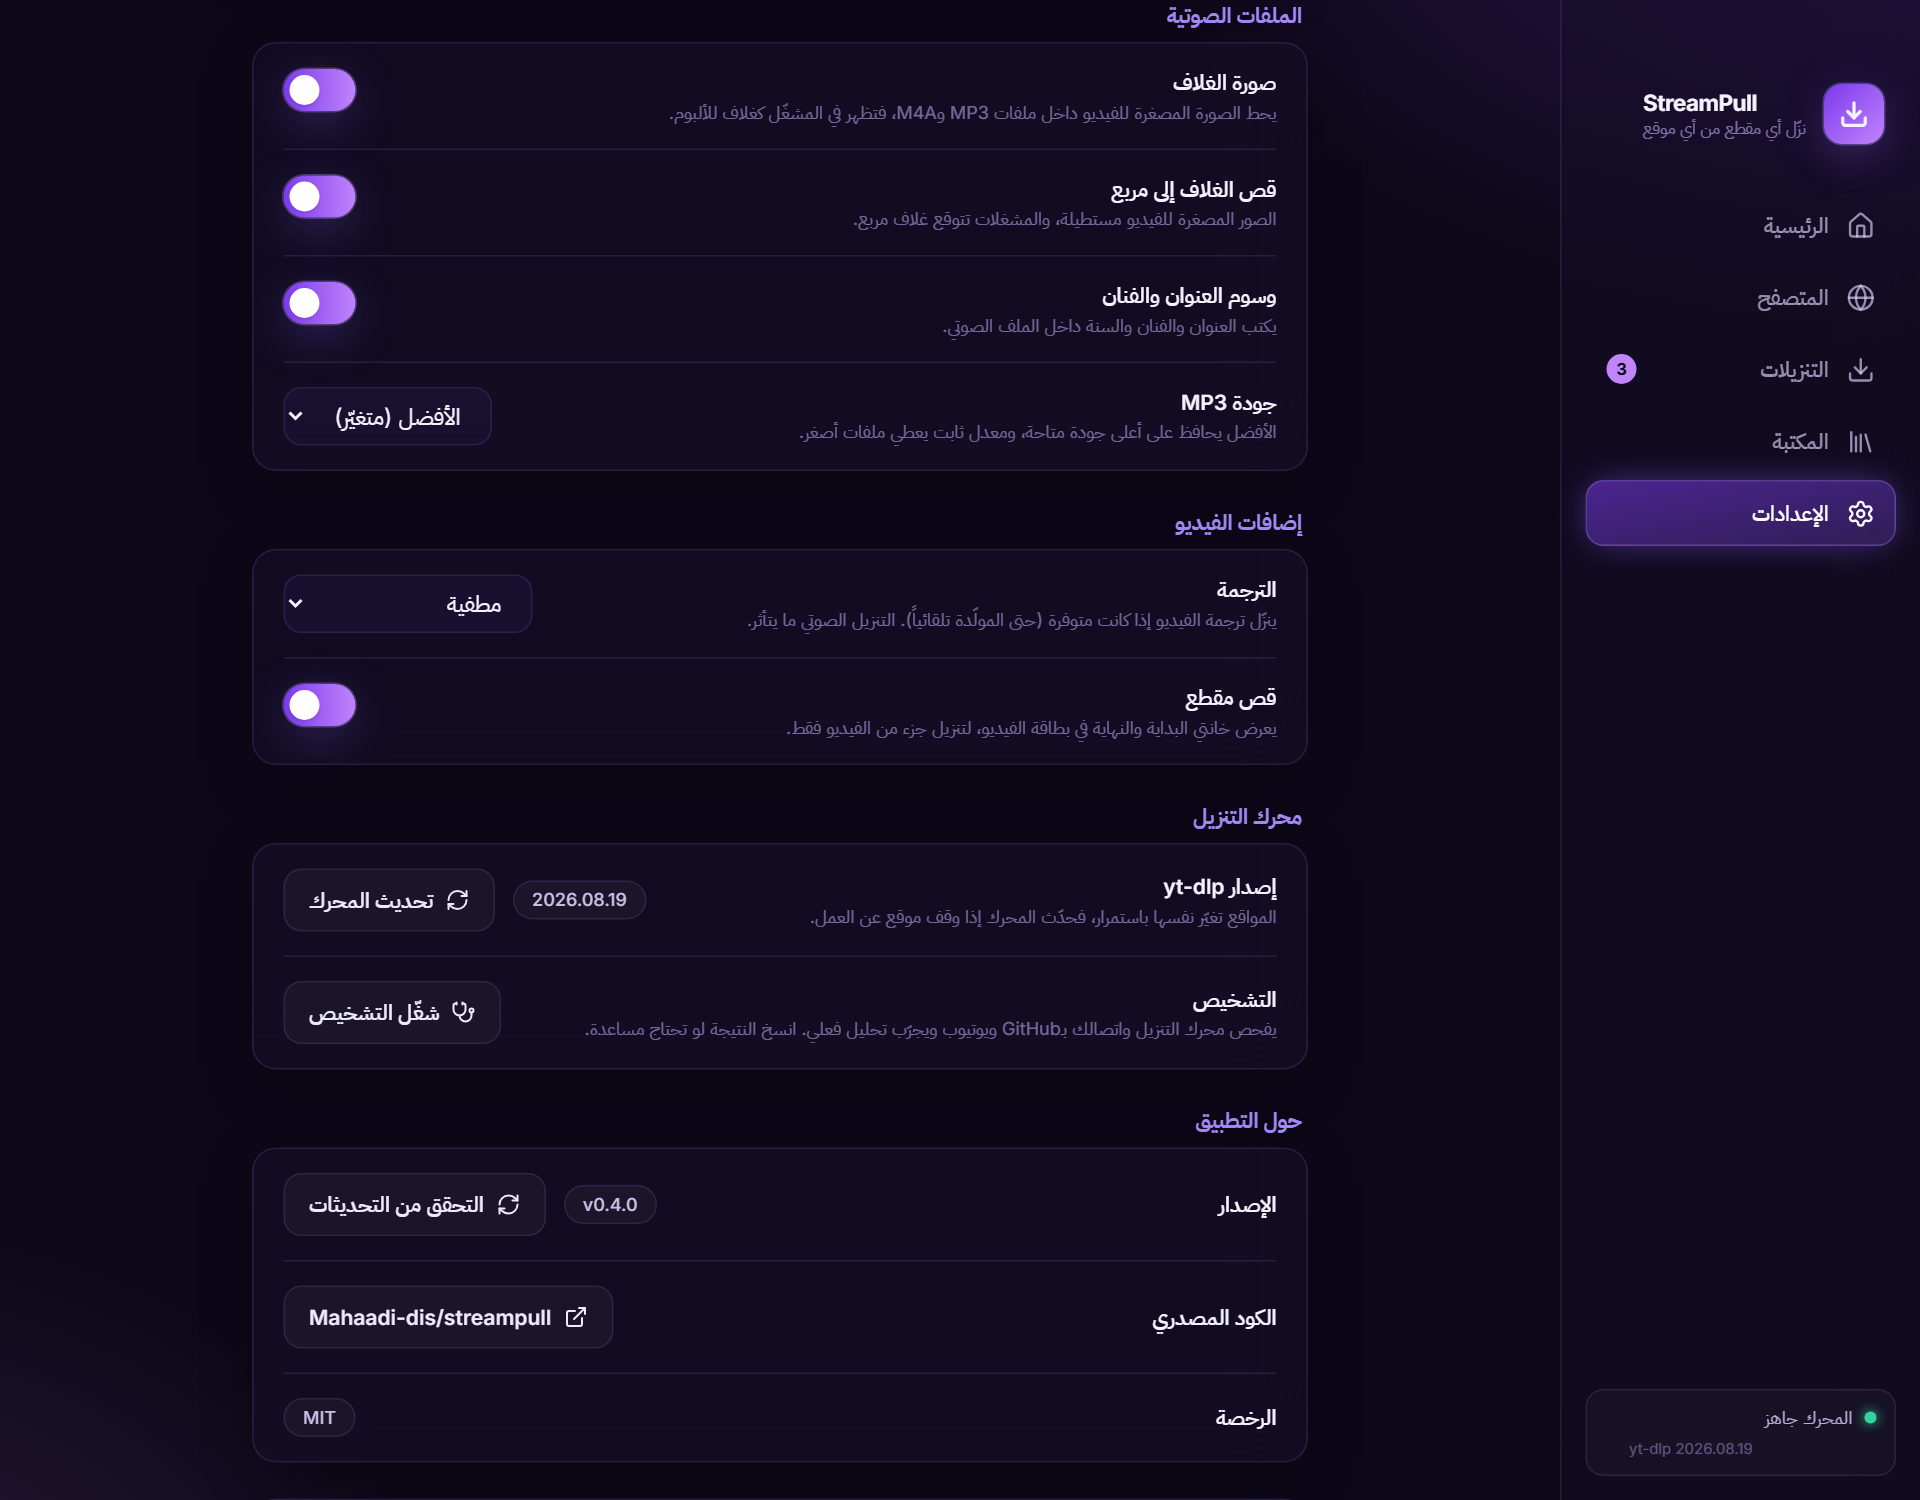
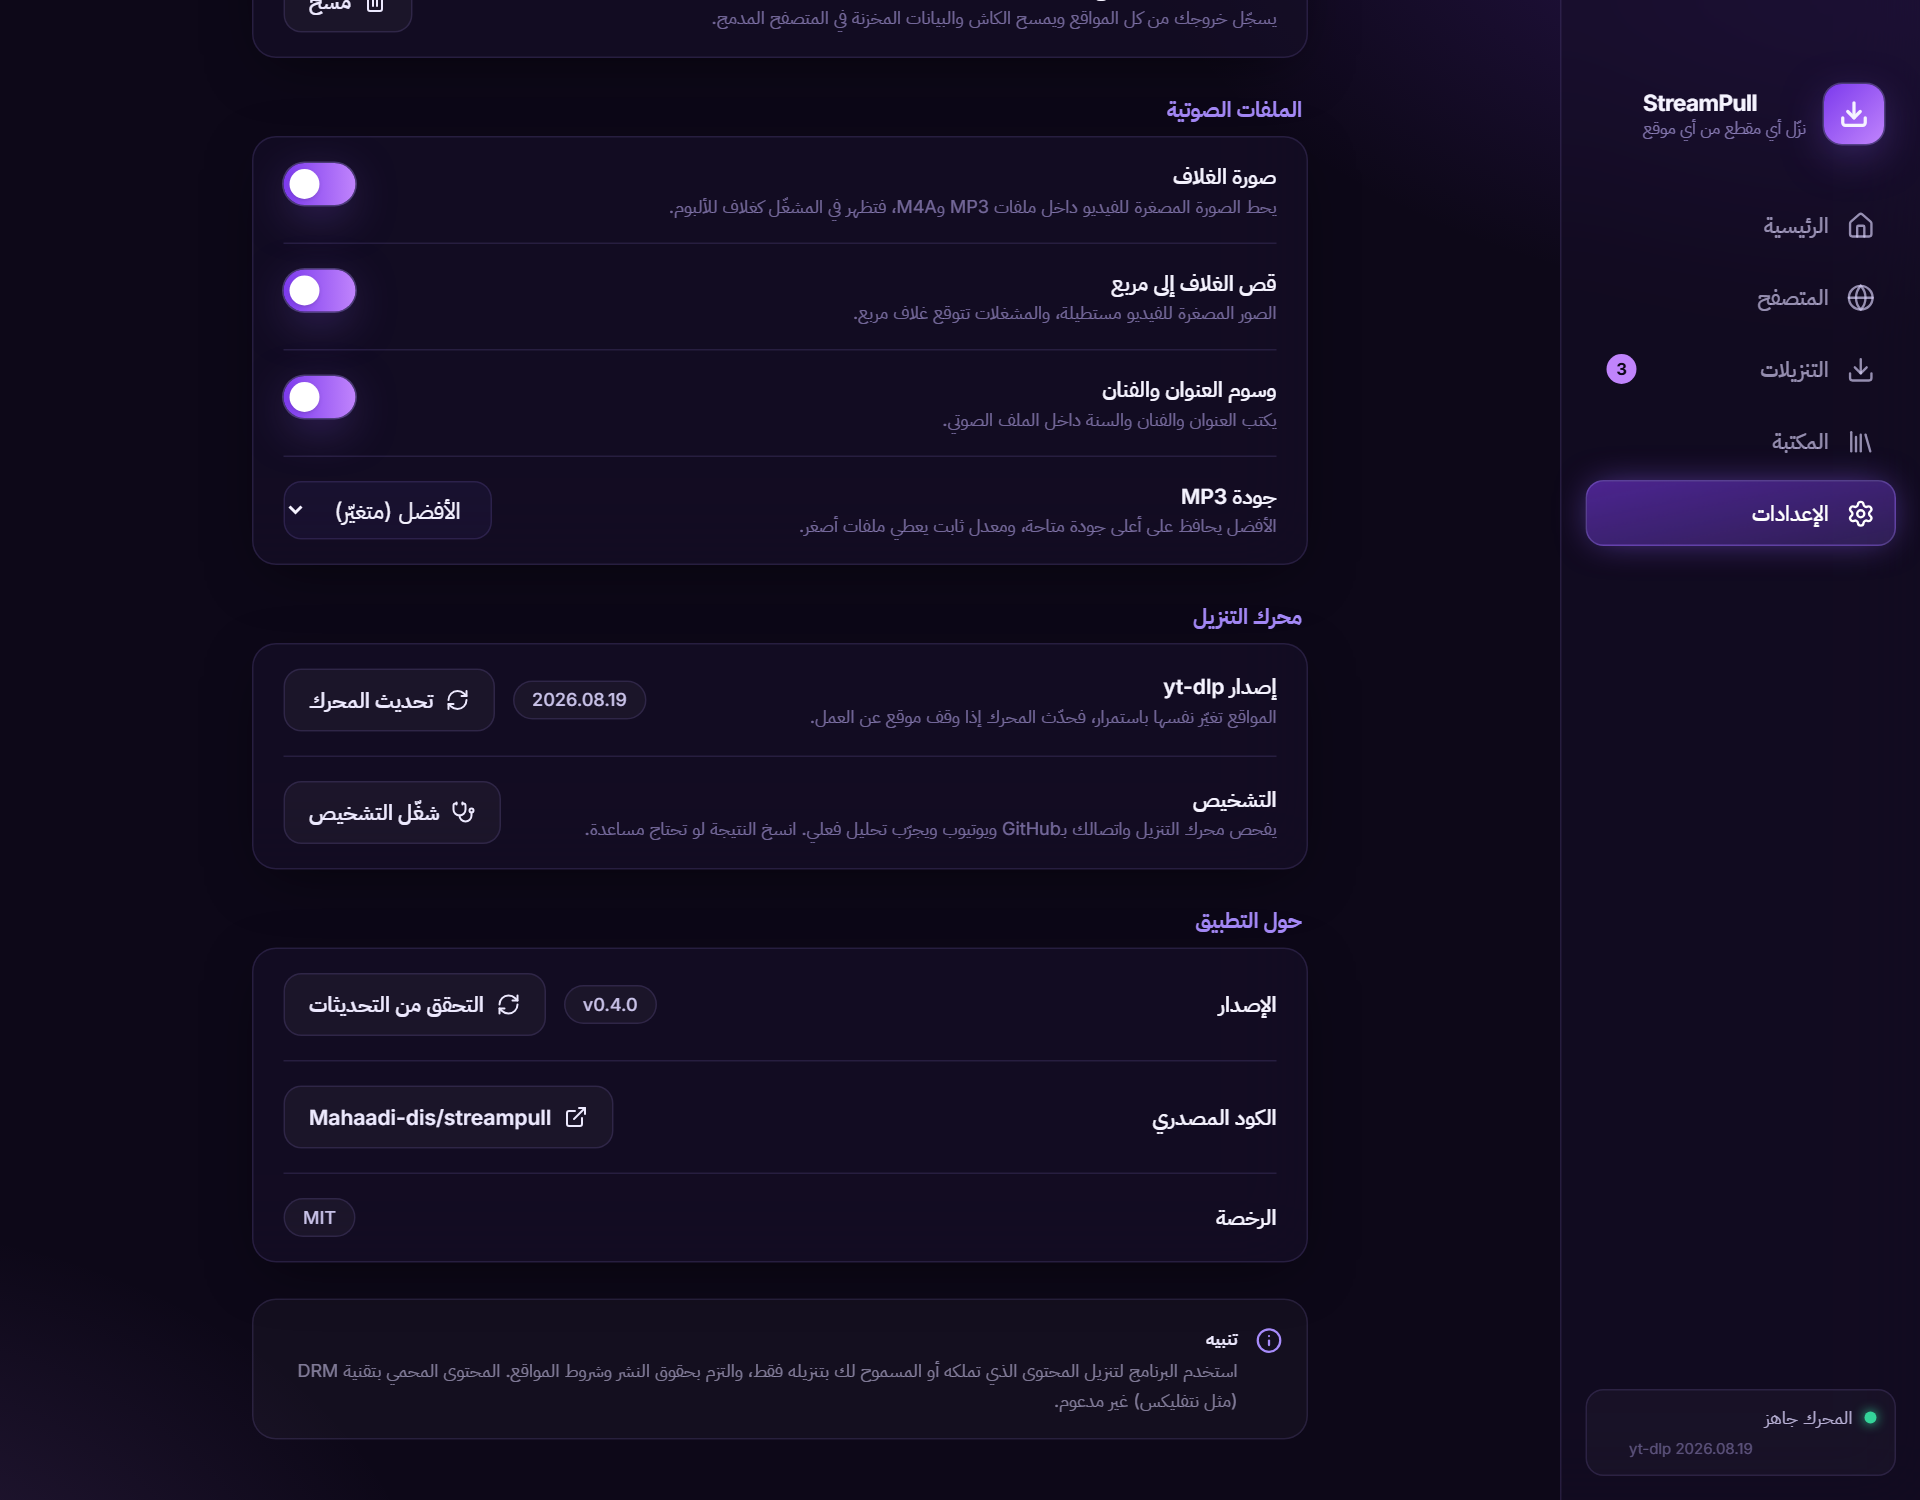
README and screenshots: drop the removed clip/subtitle features, refresh the settings screenshots

diff --git a/README.md b/README.md
@@ -37,10 +37,8 @@ StreamPull is a desktop (and, new in 0.4.0, Android) alternative to browser exte
 - **Library** — history with search, filters, *open file*, *show in folder*, *download again*.
 - **Audio done right** — the video's thumbnail becomes the cover art of your MP3/M4A (cropped to a square), with title/artist
   tags, and you pick the MP3 bitrate (Best, 320, 192 or 128 kbps).
-- **Subtitles** — embed them in the video or save a separate `.srt`, in the languages you choose.
-- **Cut a clip** — download only from 1:30 to 2:40 instead of the whole video.
 - **Wi‑Fi only** (Android) — downloads wait until you're on Wi‑Fi, with a one-time "use mobile data now" button.
-  Every extra is optional: switch each one off in *Settings*.
+  Every audio extra and Wi‑Fi only can be switched off in *Settings*.
 - **Color themes** — Violet, Ocean, Emerald, Rose, Sunset or Midnight black; change it any time in *Settings → Appearance*.
 - **Arabic first, English too** — full RTL layout, switchable at any time.
 - **On your phone too** — the Android app does the same job: paste a link or **share it from any app**, pick a quality,
@@ -60,15 +58,13 @@ StreamPull is a desktop (and, new in 0.4.0, Android) alternative to browser exte
   <img src="docs/screenshots/about-en.png" width="400" alt="About: version and update check" />
 </p>
 
-### Extras (all optional)
+### Audio and download settings
 
 <p align="center">
-  <img src="docs/screenshots/extras-en.png" width="400" alt="Settings: audio files and video extras" />
-  <img src="docs/screenshots/clip-en.png" width="400" alt="Cut a clip: from 1:30 to 2:40" />
+  <img src="docs/screenshots/extras-en.png" width="400" alt="Settings: cover art, tags and MP3 quality" />
 </p>
 <p align="center">
   <img src="docs/screenshots/android/extras-en.png" width="190" alt="Android settings: audio files" />
-  <img src="docs/screenshots/android/clip-en.png" width="190" alt="Android: cut a clip" />
 </p>
 
 ### Six color themes
